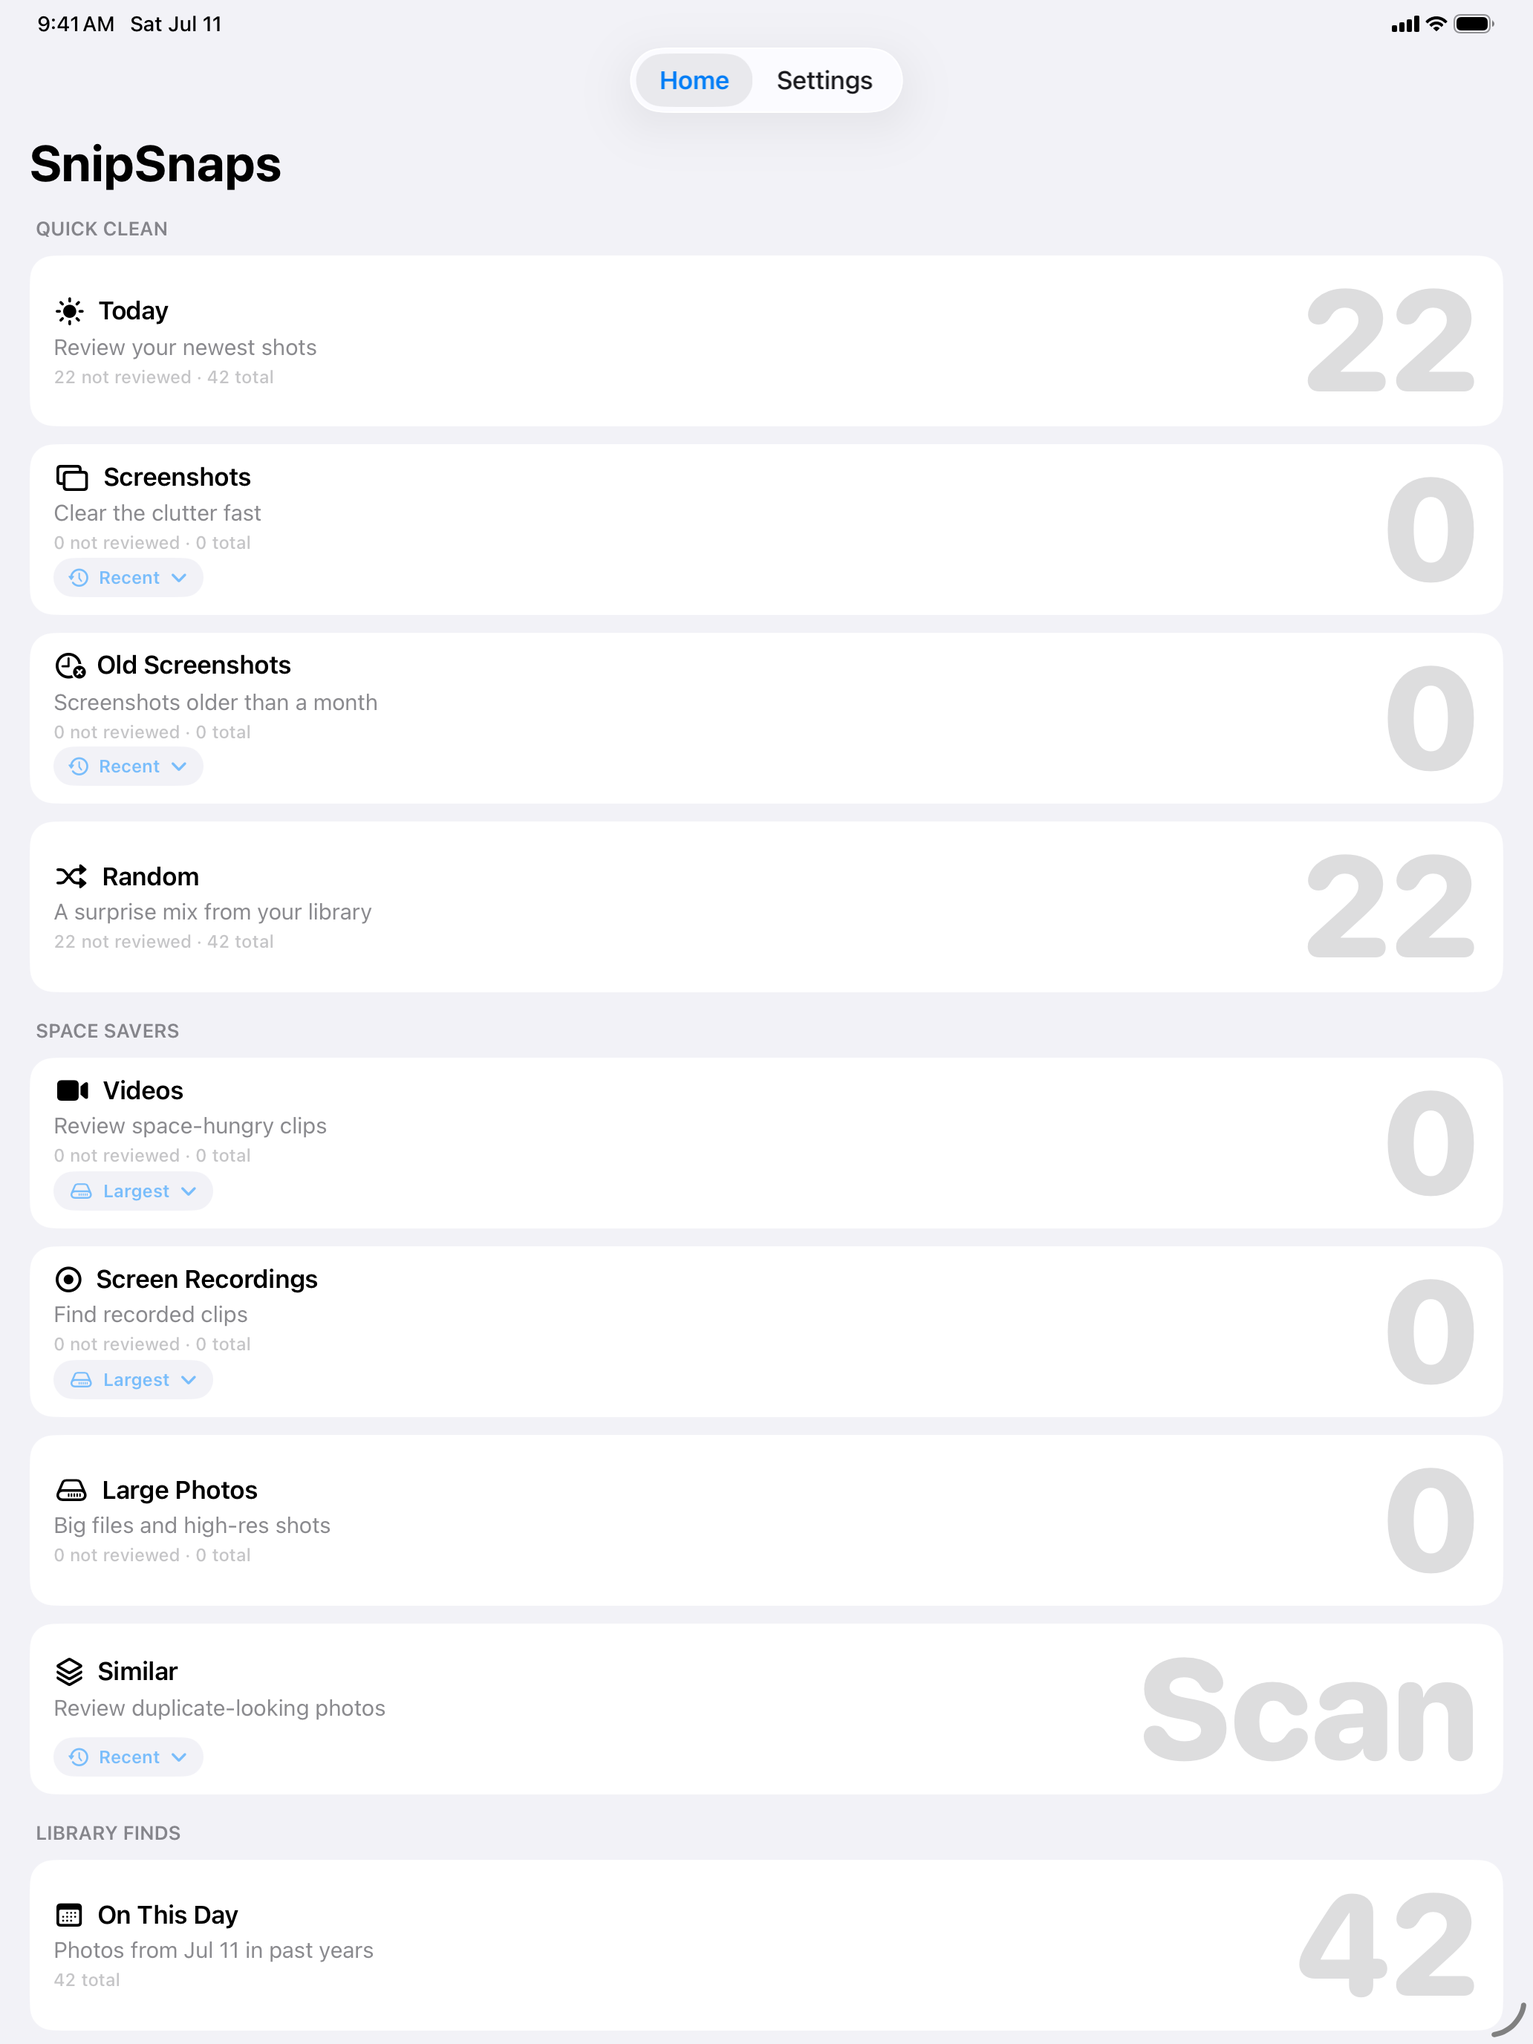
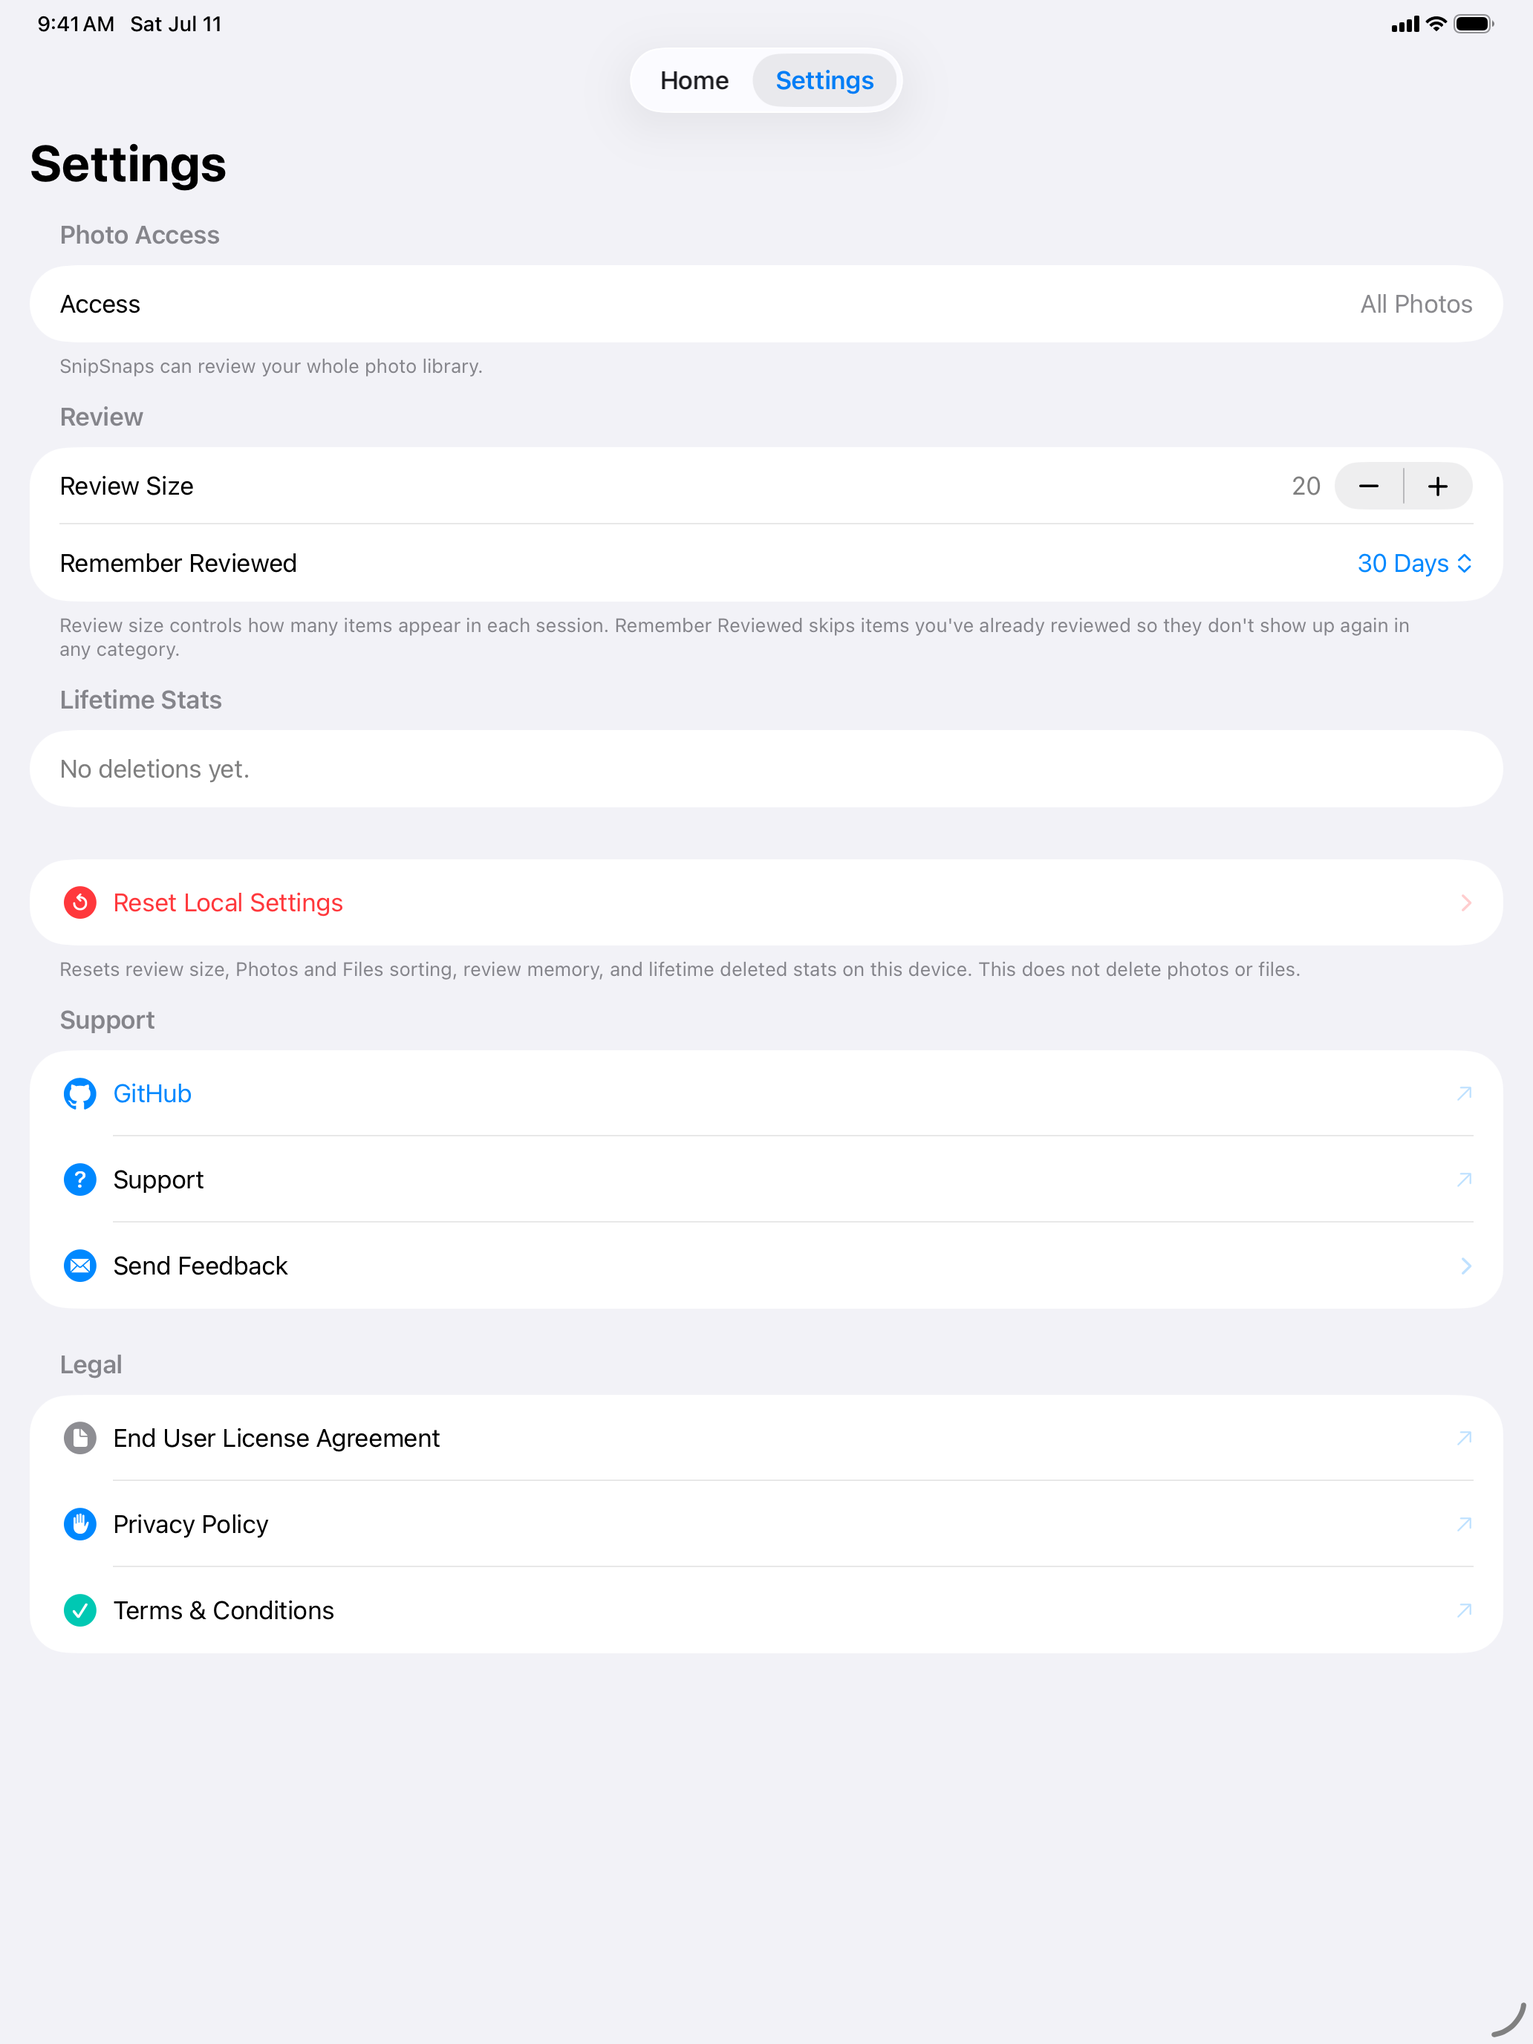
Frame iPad App Store screenshots in a real iPad Pro 13" mockup
Replace the crude drawn iPad frame with the real ipad-13 SVG mockup
(rasterized to ipad-13.png), wired into generate.py the same way as the
iPhone: glass-rect geometry constants + an ipad_frame() compositor. The
iPad glass is a clean 4:3 that matches a 2064x2752 capture, so no vertical
stretch or Dynamic Island redraw is needed.

Also fix the Settings capture on iPad: the app's TabView renders as a
floating top tab bar there, which XCUITest doesn't expose under tabBars,
so the old app.tabBars.buttons["Settings"] query silently no-op'd and the
shot captured Home. Fall back to app.buttons["Settings"] and wait on the
Settings nav bar before capturing. Regenerate all six iPad screenshots and
document the frame + idiom caveat.

diff --git a/SnipSnapsUITests/ScreenshotCaptureTests.swift b/SnipSnapsUITests/ScreenshotCaptureTests.swift
@@ -200,10 +200,21 @@ final class ScreenshotCaptureTests: XCTestCase {
     sleep(1)
 
     // ---- Settings ------------------------------------------------------
+    // iPhone shows the tabs in a bottom tab bar; on iPad the same TabView
+    // renders as a floating tab bar at the top that isn't exposed under
+    // `tabBars`, so fall back to a plain button query for the "Settings" tab.
     let settingsTab = app.tabBars.buttons["Settings"].firstMatch
     if settingsTab.waitForExistence(timeout: 4) {
       settingsTab.tap()
+    } else {
+      let settingsButton = app.buttons["Settings"].firstMatch
+      if settingsButton.waitForExistence(timeout: 4) {
+        settingsButton.tap()
+      }
     }
+    // Settle only once the Settings screen's title is actually on screen, so we
+    // never capture the Home list if the tap missed.
+    _ = app.navigationBars["Settings"].firstMatch.waitForExistence(timeout: 4)
     sleep(1)
     capture("06-settings")
   }

diff --git a/marketing/app-store-screenshots/generate.py b/marketing/app-store-screenshots/generate.py
@@ -10,6 +10,7 @@ HERE = Path(__file__).resolve().parent
 OUT = HERE / "output"
 RAW = HERE / "raw"
 FRAME_PNG = HERE / "frames" / "iphone-16.png"
+FRAME_PNG_IPAD = HERE / "frames" / "ipad-13.png"
 BACKGROUND = HERE / "backgrounds" / "aurora-teal.jpg"
 
 # Text/chrome colors. The aurora backdrop carries the palette now; we only need
@@ -59,6 +60,15 @@ DI_RX_VB = 15.5
 # matches this aspect exactly: the capture then maps 1:1 (no crop, no squish) and
 # the clock lands aligned with the Dynamic Island.
 SCREEN_ASPECT = 1320 / 2868
+
+# iPad Pro 13" frame geometry, in the SVG's 707-wide viewBox units
+# (frames/ipad-13.svg). glass = live screen rect, taken from the SVG's screen
+# mask. There's no Dynamic Island, and the glass aspect (639.835/852.898 = 0.7502)
+# already matches a real 2064x2752 capture (0.7500), so — unlike the iPhone — no
+# vertical stretch is needed; the capture maps ~1:1 into the glass.
+IPAD_FRAME_VB_W = 707.0
+IPAD_GLASS_VB = (33.5825, 33.5509, 673.417, 886.449)
+IPAD_GLASS_RX_VB = 12.37
 
 SLIDES = [
     {"title": "Clear photo clutter in minutes.", "screen": "home"},
@@ -195,22 +205,28 @@ def iphone_frame(screenshot, target_w: int) -> Image.Image:
     return frame.resize((target_w, target_h), Image.Resampling.LANCZOS)
 
 
-def tablet_frame(screenshot, size) -> Image.Image:
-    """Simple dark iPad frame (no photoreal mockup supplied for iPad)."""
-    w, h = size
-    img = Image.new("RGBA", size, (0, 0, 0, 0))
-    d = ImageDraw.Draw(img, "RGBA")
-    outer_r, inner_r, inset = 74, 58, 26
-    d.rounded_rectangle((0, 0, w, h), radius=outer_r, fill=(12, 13, 17))
-    d.rounded_rectangle((2, 2, w - 2, h - 2), radius=outer_r - 2, outline=(255, 255, 255, 40), width=3)
-    screen_box = (inset, inset, w - inset, h - inset)
+_IPAD_FRAME_CACHE: Image.Image | None = None
+
+
+def ipad_frame(screenshot, target_w: int) -> Image.Image:
+    """Composite a screenshot into the real iPad Pro 13" frame at native
+    resolution, then scale to `target_w`. No vertical stretch and no Dynamic
+    Island (see the IPAD_* geometry note) — the capture maps ~1:1 into the glass."""
+    global _IPAD_FRAME_CACHE
+    if _IPAD_FRAME_CACHE is None:
+        _IPAD_FRAME_CACHE = Image.open(FRAME_PNG_IPAD).convert("RGBA")
+    frame = _IPAD_FRAME_CACHE.copy()
+    s = frame.width / IPAD_FRAME_VB_W
+    gx0, gy0 = round(IPAD_GLASS_VB[0] * s), round(IPAD_GLASS_VB[1] * s)
+    gx1, gy1 = round(IPAD_GLASS_VB[2] * s), round(IPAD_GLASS_VB[3] * s)
+    glass = (gx1 - gx0, gy1 - gy0)
+
     if screenshot is not None:
-        screen = (screen_box[2] - screen_box[0], screen_box[3] - screen_box[1])
-        img.paste(cover(screenshot, screen).convert("RGBA"), (screen_box[0], screen_box[1]),
-                  rounded_mask(screen, inner_r))
-    else:
-        d.rounded_rectangle(screen_box, radius=inner_r, fill=(246, 244, 239))
-    return img
+        screen = cover(screenshot, glass, anchor=(0.5, 0.5)).convert("RGBA")
+        frame.paste(screen, (gx0, gy0), rounded_mask(glass, round(IPAD_GLASS_RX_VB * s)))
+
+    target_h = round(frame.height * target_w / frame.width)
+    return frame.resize((target_w, target_h), Image.Resampling.LANCZOS)
 
 
 def device_shadow(frame: Image.Image, blur: int, dy: int):
@@ -251,10 +267,9 @@ def compose(device: str, slide, index: int):
         img.alpha_composite(frame, (fx, fy))
     else:
         draw_headline(img, slide["title"], 170, 250, w - 340, 1.5)
-        frame_w, frame_h = 1420, 1893
-        frame = tablet_frame(screenshot, (frame_w, frame_h))
-        fx = (w - frame_w) // 2
-        fy = 720
+        frame = ipad_frame(screenshot, 1500)
+        fx = (w - frame.width) // 2
+        fy = 700
         shadow, spad = device_shadow(frame, blur=90, dy=46)
         img.alpha_composite(shadow, (fx - spad, fy - spad))
         img.alpha_composite(frame, (fx, fy))

diff --git a/marketing/app-store-screenshots/README.md b/marketing/app-store-screenshots/README.md
@@ -55,7 +55,7 @@ marketing/app-store-screenshots/
 ├── seed-locations.py       # stamps EXIF GPS on select seeds (details Location map)
 ├── generate.py             # composites raw captures into marketing PNGs
 ├── backgrounds/            # aurora-teal.jpg — the composite backdrop
-├── frames/                 # iphone-16.svg source + pre-rasterized iphone-16.png
+├── frames/                 # <device>.svg sources + pre-rasterized <device>.png (iphone-16, ipad-13)
 ├── seed-photos/            # 42 jpgs (Picsum/Unsplash + JPEG-quality variants)
 ├── raw/<device>/           # per-device 01-home..06-settings.png
 ├── output/<device>/        # composited App Store PNGs
@@ -77,7 +77,15 @@ marketing/app-store-screenshots/
   the glass — no crop — so content reaches the bezel, the status bar sits
   centered on the Dynamic Island, and the tab bar survives. The Dynamic Island
   is redrawn on top and a device-shaped drop shadow grounds it.
-- **iPad** uses a simple drawn frame — no iPad mockup has been supplied.
+- **iPad frame** — the real iPad Pro 13" mockup. `frames/ipad-13.svg` is the
+  source (a slimmed Figma export with the placeholder screen photo stripped out);
+  it's pre-rasterized to `frames/ipad-13.png` (2400px wide, transparent). Unlike
+  the iPhone, no vertical stretch and no notch redraw are needed: the SVG's glass
+  opening is a clean 4:3 (0.7502) that already matches a real 2064×2752 capture
+  (0.7500), and the iPad has no Dynamic Island — so `ipad_frame()` just cover-fits
+  the capture into the glass (rounded to the screen's corner radius) and grounds
+  it with the same device-shaped drop shadow. Geometry lives in the `IPAD_*`
+  constants near the top of `generate.py`.
 - **No app logo/tagline** — the headline leads.
 - **Status bar** is baked in natively at capture time. `capture.sh` runs
   `simctl status_bar override` (9:41, full battery, Wi-Fi, 4 signal bars) before
@@ -85,11 +93,12 @@ marketing/app-store-screenshots/
   no compositing-time retiming or redrawing (the old `retime_status_bar` path
   has been removed).
 
-To re-rasterize the frame after editing the SVG (needs `librsvg`; only for
+To re-rasterize a frame after editing its SVG (needs `librsvg`; only for
 regenerating the asset, not for normal runs):
 
 ```bash
 rsvg-convert -w 2000 -f png frames/iphone-16.svg -o frames/iphone-16.png
+rsvg-convert -w 2400 -f png frames/ipad-13.svg   -o frames/ipad-13.png
 ```
 
 ## Adding more screens
@@ -110,4 +119,4 @@ If captures look wrong after a re-run, the cause is almost always one of these:
 - **Status-bar time / weak signal** — baked in natively by `capture.sh`'s `simctl status_bar override` (9:41, full battery, Wi-Fi, 4 signal bars), which works on iOS 26.4. There is no compositing-time retiming any more. (The captures once *predated* the override being added to `capture.sh` and showed the sim's live clock + placeholder cellular dots; re-capturing fixed it. If you see a live clock or gray dots, the override didn't apply — usually a stale/reused sim; `erase` and re-run.)
 - **Diagonal smear / refraction across the details sheet** — iOS 26 Liquid Glass is refracting the photo behind. Either advance past high-contrast photos before opening details (the test does this with two `Keep photo` taps) or expand the sheet to `.large` so the photo is fully covered.
 - **`capture.sh` prints `** TEST FAILED **` but exits 0 with no new raws** — `xcodebuild` runs the UI test on simulator *clones* and retries a transient `Busy` / `Application failed preflight checks` launch on a fresh clone. It can print `** TEST FAILED **` for the dead clone yet pass on the retry (`Test Case … passed on 'Clone 1 …'`) and still exit non-zero. Under `set -euo pipefail` that non-zero aborted the script *before* the extract step, so `raw/` never updated. `capture.sh` now wraps the `xcodebuild` line in `set +o pipefail … set -o pipefail` so `extract-shots.py` always runs — the extract count is the real success check. If a clone keeps failing, `xcrun simctl erase <device>` clears it.
-- **Navigation labels drift with the app UI — re-verify after UI changes.** Two that bit us: the review **summary** is dismissed by the top-left X labelled `Close without deleting` (the bottom `Done` button only appears when *nothing* is marked; with photos marked it's `Delete N`). And **"Similar"** moved into the "Space Savers" section near the *bottom* of the home list, so the test scrolls (`swipeUp`) to reach its button before tapping, then scrolls back to the top for the "Today" review.
+- **Navigation labels drift with the app UI — re-verify after UI changes.** Two that bit us: the review **summary** is dismissed by the top-left X labelled `Close without deleting` (the bottom `Done` button only appears when *nothing* is marked; with photos marked it's `Delete N`). And **"Similar"** moved into the "Space Savers" section near the *bottom* of the home list, so the test scrolls (`swipeUp`) to reach its button before tapping, then scrolls back to the top for the "Today" review. And the **Settings** tab isn't reachable the same way on both idioms: iPhone has a bottom tab bar (`app.tabBars.buttons["Settings"]`), but on iPad the same SwiftUI `TabView` renders as a floating tab bar at the *top* that XCUITest does **not** expose under `tabBars`, so the test falls back to `app.buttons["Settings"]` and waits for the Settings nav bar before capturing (otherwise it silently captures the Home list — which is exactly the bug that shipped the wrong `06-settings` iPad shot).

diff --git a/.agents/skills/app-store-screenshots/SKILL.md b/.agents/skills/app-store-screenshots/SKILL.md
@@ -137,7 +137,7 @@ This pattern in SnipSnaps lives in:
 - **PhotoKit's `.fastFormat` delivery mode returns placeholders, not real renders,** for very small `targetSize` requests (e.g., 18×16 for dHash). Two PHAssets with byte-identical content can come back with different placeholder pixels and therefore different hashes. If your similar-photo algorithm relies on stable hashes, request `.highQualityFormat` instead — slower per asset but deterministic across runs.
 - **A "similar/duplicate photos" screen coming up empty in the simulator is usually a `PHFetchOptions` NULL-predicate bug, not broken on-device ML — check the predicate before blaming Vision.** `simctl addmedia` imports photos with a **NULL `mediaSubtype`** column (no camera metadata). A fetch predicate like `(mediaSubtype & <screenshot>) == 0` (the natural way to *exclude* screenshots) then drops **every** asset, because in the Photos store `NULL & N == 0` evaluates to NULL, not true — so the scan fetches 0 assets and returns instantly. This looks identical to "the near-duplicate detector no-ops in the sim," which is what fooled us: Vision `VNGenerateImageFeaturePrintRequest` actually works fine in the iOS 26.4 sim on direct CGImages (verified by unit test), and even where it returns nil on PhotoKit thumbnails, a dHash fallback still groups near-dups. The fix is to make the exclusion predicate NULL-safe: `NOT ((mediaSubtype & N) == N)` keeps NULL-subtype assets while still excluding real screenshots (and fixes imported/synced photos being silently skipped for real users too). To diagnose an empty on-device-ML screen in the sim: log the fetch's `result.count`, an unfiltered `PHAsset.fetchAssets` count, and the authorization status — if unfiltered > 0 but the predicated fetch is 0, it's the predicate, not the algorithm.
 - **The marketing letterbox-fill color must come from the screenshot itself.** Don't hardcode a "neutral" off-white (`(246, 244, 239)` cream is a common default and is wrong for iOS 26 light mode). Sample the top-left pixel of the captured raw screenshot and use that as the canvas background in `fit_image()` — the iOS status-bar area then blends seamlessly into the device frame.
-- **Use semantic XCUI queries**, not pixel coordinates. `app.staticTexts["Today"]`, `app.buttons["Close review"]`, `app.tabBars.buttons["Settings"]`, etc. Coordinates break the moment Liquid Glass or Dynamic Type shifts a layout.
+- **Use semantic XCUI queries**, not pixel coordinates. `app.staticTexts["Today"]`, `app.buttons["Close review"]`, `app.tabBars.buttons["Settings"]`, etc. Coordinates break the moment Liquid Glass or Dynamic Type shifts a layout. **Idiom caveat:** a SwiftUI `TabView` renders as a bottom tab bar on iPhone (exposed under `app.tabBars`) but as a floating *top* tab bar on iPad that is **not** under `tabBars` — so `app.tabBars.buttons["Settings"]` times out on iPad and the tap is silently skipped, capturing the previous tab. Fall back to a plain `app.buttons["<tab>"]` query and confirm you landed by waiting on the destination's nav bar (`app.navigationBars["Settings"]`).
 - **Attach screenshots with stable names** (`01-home`, `02-review`, …) so the host extractor can rename the GUID-named exports back to predictable filenames.
 - **No host-level mouse automation is required.** XCUITest runs inside Xcode's test infrastructure and does not need Accessibility/Screen-Recording permissions — unlike `cliclick`, AppleScript clicks, or `idb`, all of which silently fail when those grants aren't in place.
 - **For sheet-over-photo captures, pre-position the underlying state.** iOS 26 sheets render with translucent material that refracts whatever's behind them. If the photo behind has high-contrast vertical lines (bridge cables, text, etc.), they show through as distracting smears. Either advance the app to a flat-color photo first or expand the sheet to its largest detent before capturing.
